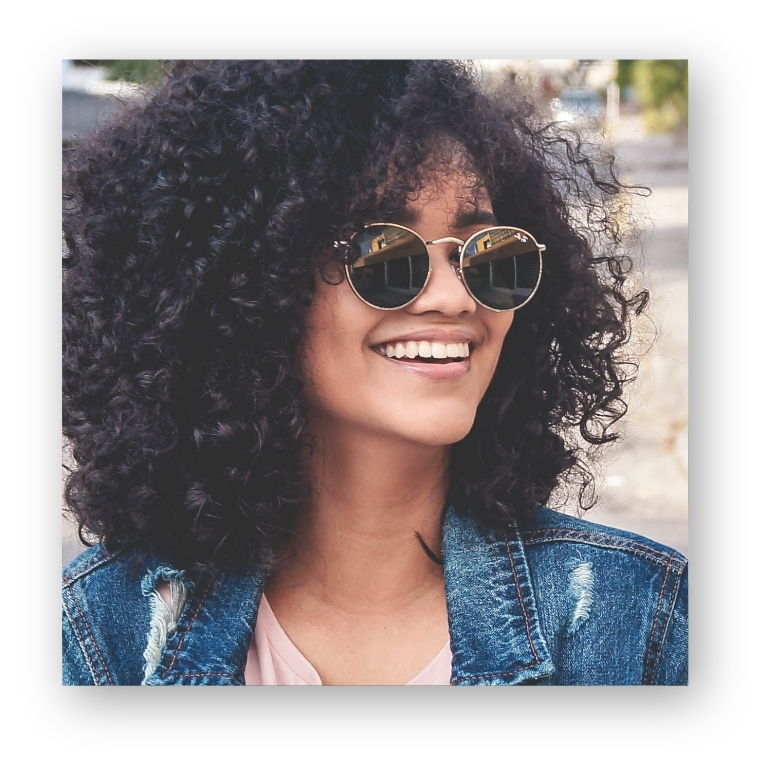
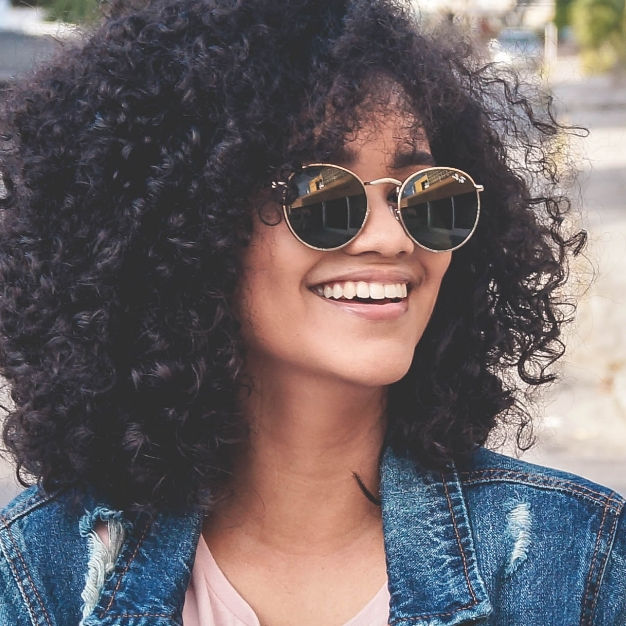
completed html and custom properties in css.

diff --git a/index.html b/index.html
@@ -14,6 +14,11 @@
       integrity="sha256-46qynGAkLSFpVbEBog43gvNhfrOj+BmwXdxFgVK/Kvc="
       crossorigin="anonymous"
     />
+    <link
+      href="https://fonts.googleapis.com/css?family=Source+Code+Pro:400,900|Source+Sans+Pro:300,900&display=swap"
+      rel="stylesheet"
+    />
+    <link rel="stylesheet" href="css/style.css" />
   </head>
   <body>
     <header>
@@ -25,12 +30,126 @@
       </button>
       <nav class="nav">
         <ul class="nav__list">
-          <li class="nav__list-item">Home</li>
-          <li class="nav__list-item">My Services</li>
-          <li class="nav__list-item">About me</li>
-          <li class="nav__list-item">My Work</li>
+          <li class="nav__item"><a href="#home">Home</a></li>
+          <li class="nav__item"><a href="#services">My Services</a></li>
+          <li class="nav__item"><a href="#about">About me</a></li>
+          <li class="nav__item"><a href="#work">My Work</a></li>
         </ul>
       </nav>
     </header>
+
+    <!-- Introduction -->
+    <section class="into" id="home">
+      <h1 class="section__title section__title--intro">
+        Hi, I am <strong>Ammon Quarshie</strong>
+      </h1>
+      <p class="section__subtitle section__subtitle--intro">front-end dev</p>
+      <img src="img/dev-jane-01.jpg" alt="A picture of a person smiling" />
+    </section>
+
+    <!-- Services -->
+    <section class="my-services" id="services">
+      <h2 class="section__title section__title-services">What I do</h2>
+      <div class="services">
+        <div class="service">
+          <h3></h3>
+          <p></p>
+        </div>
+        <div class="service">
+          <h3></h3>
+          <p></p>
+        </div>
+        <div class="service">
+          <h3></h3>
+          <p></p>
+        </div>
+      </div>
+
+      <a href="#work" class="btn">My work</a>
+    </section>
+
+    <!-- About Me -->
+    <section class="about-me" id="about">
+      <h2 class="section__title section__title--about">Who I am</h2>
+      <p class="section__subtitle section__subtitle--about"></p>
+
+      <div class="about-me__body">
+        <p></p>
+        <p></p>
+      </div>
+
+      <img src="img/dev-jane-02.jpg" alt="A person learning against a bus" />
+    </section>
+
+    <!-- My Work -->
+    <section class="my-work" id="work">
+      <h2 class="section__title">My Work</h2>
+      <p class="section__subtitle"></p>
+
+      <div class="portfolio">
+        <!-- Portfolio item 01 -->
+        <a href="" class="portfolio__item">
+          <img src="img/portfolio-01.jpg" class="portfolio image" alt="" />
+        </a>
+
+        <!-- Portfolio item 02-->
+        <a href="" class="portfolio__item">
+          <img src="img/portfolio-02jpg" class="portfolio image" alt="" />
+        </a>
+        <!-- Portfolio item 03 -->
+        <a href="" class="portfolio__item">
+          <img src="img/portfolio-03.jpg" class="portfolio image" alt="" />
+        </a>
+        <!-- Portfolio item 04 -->
+        <a href="" class="portfolio__item">
+          <img src="img/portfolio-04.jpg" class="portfolio image" alt="" />
+        </a>
+        <!-- Portfolio item 05 -->
+        <a href="" class="portfolio__item">
+          <img src="img/portfolio-05.jpg" class="portfolio image" alt="" />
+        </a>
+        <!-- Portfolio item 06 -->
+        <a href="" class="portfolio__item">
+          <img src="img/portfolio-06.jpg" class="portfolio image" alt="" />
+        </a>
+        <!-- Portfolio item 07 -->
+        <a href="" class="portfolio__item">
+          <img src="img/portfolio-07.jpg" class="portfolio image" alt="" />
+        </a>
+        <!-- Portfolio item 08 -->
+        <a href="" class="portfolio__item">
+          <img src="img/portfolio-08.jpg" class="portfolio image" alt="" />
+        </a>
+        <!-- Portfolio item 09 -->
+        <a href="" class="portfolio__item">
+          <img src="img/portfolio-09.jpg" class="portfolio image" alt="" />
+        </a>
+        <!-- Portfolio item 10 -->
+        <a href="" class="portfolio__item">
+          <img src="img/portfolio-10.jpg" class="portfolio image" alt="" />
+        </a>
+      </div>
+    </section>
+
+    <!-- Footer -->
+    <footer>
+      <a href="mailto:aquarsh66@gmail.com" class="footer-link"
+        >aquarsh66@gmail.com</a
+      >
+      <ul class="social-list">
+        <li class="social-list__item">
+          <a class="social-list__link" href="#">a</a>
+        </li>
+        <li class="social-list__item">
+          <a class="social-list__link" href="#">b</a>
+        </li>
+        <li class="social-list__item">
+          <a class="social-list__link" href="#">c</a>
+        </li>
+        <li class="social-list__item">
+          <a class="social-list__link" href="#">d</a>
+        </li>
+      </ul>
+    </footer>
   </body>
 </html>

diff --git a/css/style.css b/css/style.css
@@ -1,0 +1,33 @@
+*,
+*::before,
+*::after {
+  box-sizing: border-box;
+}
+
+/* Custom properties */
+
+:root {
+  --ff-primary: "Source Sans Pro", sans-serif;
+  --ff-secondary: "Source Code Pro", monospace;
+
+  --fw-reg: 300;
+  --fw-bold: 900;
+
+  --clr-light: #fff;
+  --clr-dark: #303030;
+  --clr-accest: #16e0bd;
+
+  --fs-h1: 3rem;
+  --fs-h2: 2.25rem;
+  --fs-h3: 1.25rem;
+  --fs-body: 1rem;
+}
+
+@media (min-width: 800px) {
+  :root {
+    --fs-h1: 4.5rem;
+    --fs-h2: 3.75rem;
+    --fs-h3: 1.5rem;
+    --fs-body: 1.125rem;
+  }
+}
